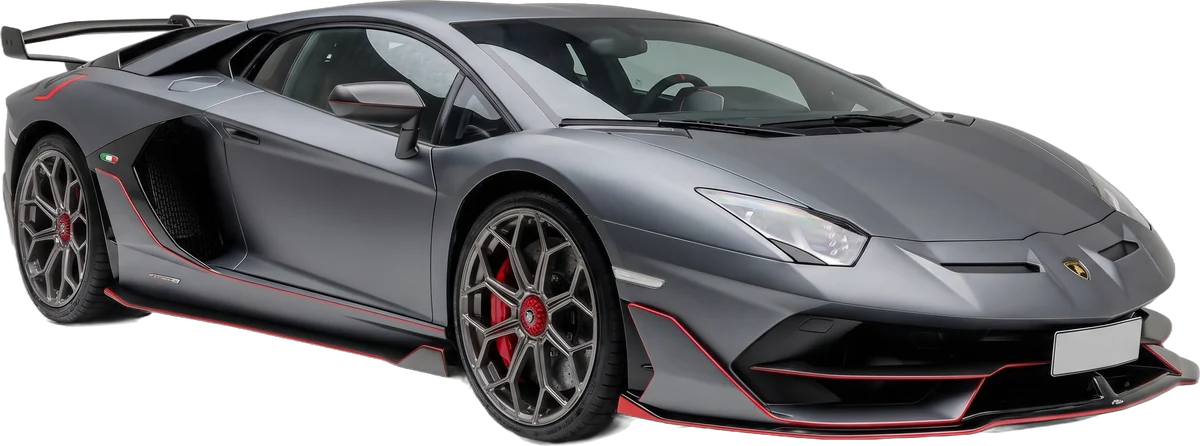
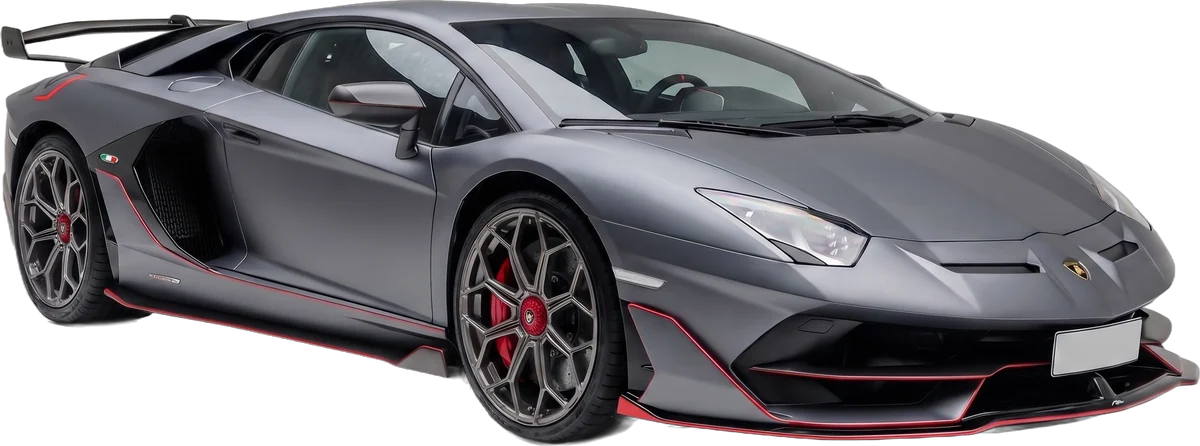
Game Mode: the cars from one angle, standing on floating platforms; no frame, no glow, nothing moving
Claude-Session: https://claude.ai/code/session_01XaGrGFV7we6ves4Y4JY6nN

diff --git a/portal-game.css b/portal-game.css
@@ -715,38 +715,30 @@ canvas.gm-3d{ position:absolute; inset:0; width:100%; height:100%; display:block
   .gm-bg i, .gm-grid{ animation:none !important; }
 }
 
-/* the garage's showroom: the car cut out of its photo, standing on a lit turntable in a dark hall (nothing spins) */
-.gm-stage.is-room{ background:#07060d; aspect-ratio:4 / 3; }
-@media (min-width: 700px){ .gm-stage.is-room{ aspect-ratio:16 / 10; } }
-.gm-stage.is-room::before{ display:none; }
-.gm-room{ position:absolute; inset:0; overflow:hidden; perspective:700px; }
-.gm-room > i{ position:absolute; display:block; pointer-events:none; }
-.gm-room .wall{ inset:0 0 34% 0; background:radial-gradient(70% 120% at 50% 0%, rgba(140,110,255,.30), transparent 70%), linear-gradient(#17132c, #0c0a19); }
-.gm-room .strips{ left:4%; right:4%; top:7%; bottom:42%; background:repeating-linear-gradient(90deg, transparent 0 7.5%, rgba(214,206,255,.20) 7.5% 8.1%, transparent 8.1% 16.5%);
-  -webkit-mask-image:linear-gradient(transparent, #000 25%, #000 70%, transparent); mask-image:linear-gradient(transparent, #000 25%, #000 70%, transparent); }
-.gm-room .floor{ left:-60%; right:-60%; bottom:-6%; height:58%; transform:rotateX(70deg); transform-origin:50% 100%;
-  background:linear-gradient(rgba(255,255,255,.055) 1px, transparent 1px) 0 0 / 64px 64px, linear-gradient(90deg, rgba(255,255,255,.055) 1px, transparent 1px) 0 0 / 64px 64px, radial-gradient(60% 70% at 50% 45%, #2a2448, #0b0915 75%);
-  -webkit-mask-image:radial-gradient(70% 90% at 50% 55%, #000 40%, transparent 85%); mask-image:radial-gradient(70% 90% at 50% 55%, #000 40%, transparent 85%); }
-.gm-room .spot{ left:50%; top:-8%; width:90%; height:100%; transform:translateX(-50%); clip-path:polygon(40% 0, 60% 0, 100% 100%, 0 100%);
-  background:linear-gradient(rgba(255,255,255,.13), rgba(255,255,255,.02) 70%, transparent); mix-blend-mode:screen; }
-.gm-room .disc{ left:12%; right:12%; bottom:27%; height:20%; border-radius:50%; background:radial-gradient(closest-side, #221d3d 55%, #120f22);
-  box-shadow:0 0 0 2px rgba(177,77,255,.45), 0 0 34px rgba(177,77,255,.35), inset 0 -8px 20px rgba(0,0,0,.6), inset 0 5px 12px rgba(255,255,255,.07); }
-.gm-room .car{ position:absolute; left:17%; right:17%; bottom:34%; }
-.gm-room .car img{ position:static; inset:auto; display:block; width:100%; height:auto; object-fit:contain; transform:none; transition:filter 1.2s var(--gm-ease); }
-.gm-room .car .body{ position:relative; z-index:2; filter:drop-shadow(0 0 1px rgba(210,200,255,.55)) drop-shadow(0 14px 14px rgba(0,0,0,.6)); }
-.gm-room .car .refl{ position:absolute; left:0; top:100%; z-index:1; transform:scaleY(-1); transform-origin:50% 0; opacity:.2;
-  -webkit-mask-image:linear-gradient(to top, #000, transparent 38%); mask-image:linear-gradient(to top, #000, transparent 38%); }
-.gm-room .car .shadow{ position:absolute; z-index:1; left:5%; right:5%; bottom:-7%; height:16%; border-radius:50%; background:radial-gradient(closest-side, rgba(0,0,0,.85), transparent); }
-.gm-room .car .sheen{ position:absolute; inset:0; z-index:3; pointer-events:none; mix-blend-mode:overlay; opacity:0;
-  background:linear-gradient(105deg, transparent 42%, rgba(255,255,255,.75) 50%, transparent 58%) 0 0 / 260% 100% no-repeat;
-  -webkit-mask:var(--m) center / 100% 100% no-repeat; mask:var(--m) center / 100% 100% no-repeat; }
-.gm-slide.is-on .gm-room .car .sheen{ animation:gm-sheen 7s var(--gm-ease) 1s infinite; }
-@keyframes gm-sheen{ 0%{ background-position:130% 0; opacity:1; } 35%, 100%{ background-position:-30% 0; opacity:1; } }
-.gm-slide.is-locked .gm-stage.is-room .car img{ filter:saturate(.9) brightness(.86); }
-.gm-slide.is-locked .gm-stage.is-room .car .body{ filter:saturate(.9) brightness(.86) drop-shadow(0 0 1px rgba(210,200,255,.4)) drop-shadow(0 14px 14px rgba(0,0,0,.6)); }
-.gm-slide.is-unlocked .gm-room .disc{ box-shadow:0 0 0 2px rgba(255,209,102,.8), 0 0 40px rgba(255,209,102,.45), inset 0 -8px 20px rgba(0,0,0,.6), inset 0 5px 12px rgba(255,255,255,.08); }
-.gm-slide.is-unlocked .gm-room .strips{ background:repeating-linear-gradient(90deg, transparent 0 7.5%, rgba(255,226,160,.28) 7.5% 8.1%, transparent 8.1% 16.5%); }
-@media (prefers-reduced-motion: reduce){ .gm-slide.is-on .gm-room .car .sheen{ animation:none; } }
+/* the garage's cars: each one standing on a floating platform over the game's background, lit like a studio; no frame,
+   no glow, nothing moves */
+.gm-stage.is-room{ background:none; box-shadow:none; overflow:visible; aspect-ratio:4 / 3; }
+@media (min-width: 700px){ .gm-stage.is-room{ aspect-ratio:16 / 11; } }
+.gm-stage.is-room::before, .gm-stage.is-room::after, .gm-slide .gm-stage.is-room ~ .gm-floor{ display:none; }
+.gm-slide.is-unlocked .gm-stage.is-room{ box-shadow:none; }
+.gm-stage.is-room .cap{ top:2px; bottom:auto; left:4px; right:84px; }
+.gm-stage.is-room .lock, .gm-stage.is-room .won{ top:4px; }
+.gm-room{ position:absolute; inset:0; }
+.gm-room .plat{ position:absolute; left:8%; width:84%; top:56%; aspect-ratio:4 / 1.25; }
+.gm-room .plat i{ position:absolute; display:block; left:0; right:0; }
+.gm-room .plat .under{ left:12%; right:12%; top:118%; height:34%; border-radius:50%; background:radial-gradient(closest-side, rgba(0,0,0,.6), transparent); filter:blur(6px); }
+.gm-room .plat .side{ top:38%; height:62%; border-radius:0 0 50% 50% / 0 0 61.3% 61.3%;
+  background:linear-gradient(90deg, #0c0b10, #2f2c37 38%, #3b3843 52%, #1d1b23 74%, #0a090d); box-shadow:inset 0 -2px 2px rgba(255,255,255,.06); }
+.gm-room .plat .top{ top:0; height:76%; border-radius:50%;
+  background:radial-gradient(ellipse 60% 70% at 50% 38%, #4b4757, #2c2935 48%, #1a1820 82%, #141218);
+  box-shadow:inset 0 2px 1px rgba(255,255,255,.16), inset 0 -3px 4px rgba(0,0,0,.45); }
+.gm-slide.is-unlocked .gm-room .plat .top{ box-shadow:inset 0 0 0 1px rgba(255,209,102,.55), inset 0 2px 1px rgba(255,255,255,.18), inset 0 -3px 4px rgba(0,0,0,.45); }
+.gm-room .car{ position:absolute; left:14%; width:72%; bottom:29%; }
+.gm-room .car img{ position:relative; z-index:2; inset:auto; display:block; width:100%; height:auto; object-fit:contain; transform:none; transition:filter 1.2s var(--gm-ease); }
+.gm-room .car .shadow{ position:absolute; z-index:1; left:3%; right:1%; bottom:-4%; height:18%; border-radius:50%;
+  background:radial-gradient(closest-side, rgba(0,0,0,.92), rgba(0,0,0,.55) 55%, transparent); filter:blur(3px); }
+.gm-slide.is-locked .gm-stage.is-room .car img{ filter:saturate(.92) brightness(.9); }
+
 /* the same showroom in the unlock ceremony and the car on the home screen */
 .gm-cer .card .gm-room{ filter:grayscale(1) brightness(.45); transition:filter 1.4s var(--gm-ease); }
 .gm-cer.is-boom .card .gm-room{ filter:none; }

diff --git a/portal-game.js b/portal-game.js
@@ -669,14 +669,12 @@
   }
 
   // ------------------------------------------------------------------ the garage: a 3D showroom
-  // the cars cut out of their photos (game/img/<id>-cut.webp): they stand in a showroom built here, lit like a game's
+  // the cars cut out of their pictures (game/img/<id>-cut.webp), each one standing on a floating platform built here
   const CUT = { m4: 1, gt3rs: 1, svj: 1 };
   const cutOf = (g) => (CUT[g.img] ? '/game/img/' + encodeURIComponent(g.img) + '-cut.webp' : '');
   function showroom(g, i) {
-    const src = esc(cutOf(g)), ld = i < 2 ? 'eager' : 'lazy';
-    return '<div class="gm-room"><i class="wall"></i><i class="strips"></i><i class="floor"></i><i class="spot"></i><i class="disc"></i>' +
-      '<div class="car"><img class="refl" src="' + src + '" alt="" loading="' + ld + '" decoding="async"><i class="shadow"></i>' +
-      '<img class="body" src="' + src + '" alt="" loading="' + ld + '" decoding="async"><i class="sheen" style="--m:url(' + src + ')"></i></div></div>';
+    return '<div class="gm-room"><div class="plat"><i class="under"></i><i class="side"></i><i class="top"></i></div>' +
+      '<div class="car"><i class="shadow"></i><img class="body" src="' + esc(cutOf(g)) + '" alt="" loading="' + (i < 2 ? 'eager' : 'lazy') + '" decoding="async"></div></div>';
   }
   function goalStage(g, i) {
     return '<button type="button" class="gm-slide ' + (g.unlocked ? 'is-unlocked' : 'is-locked') + '" data-slide="' + i + '" data-id="' + esc(g.id) + '">' +
